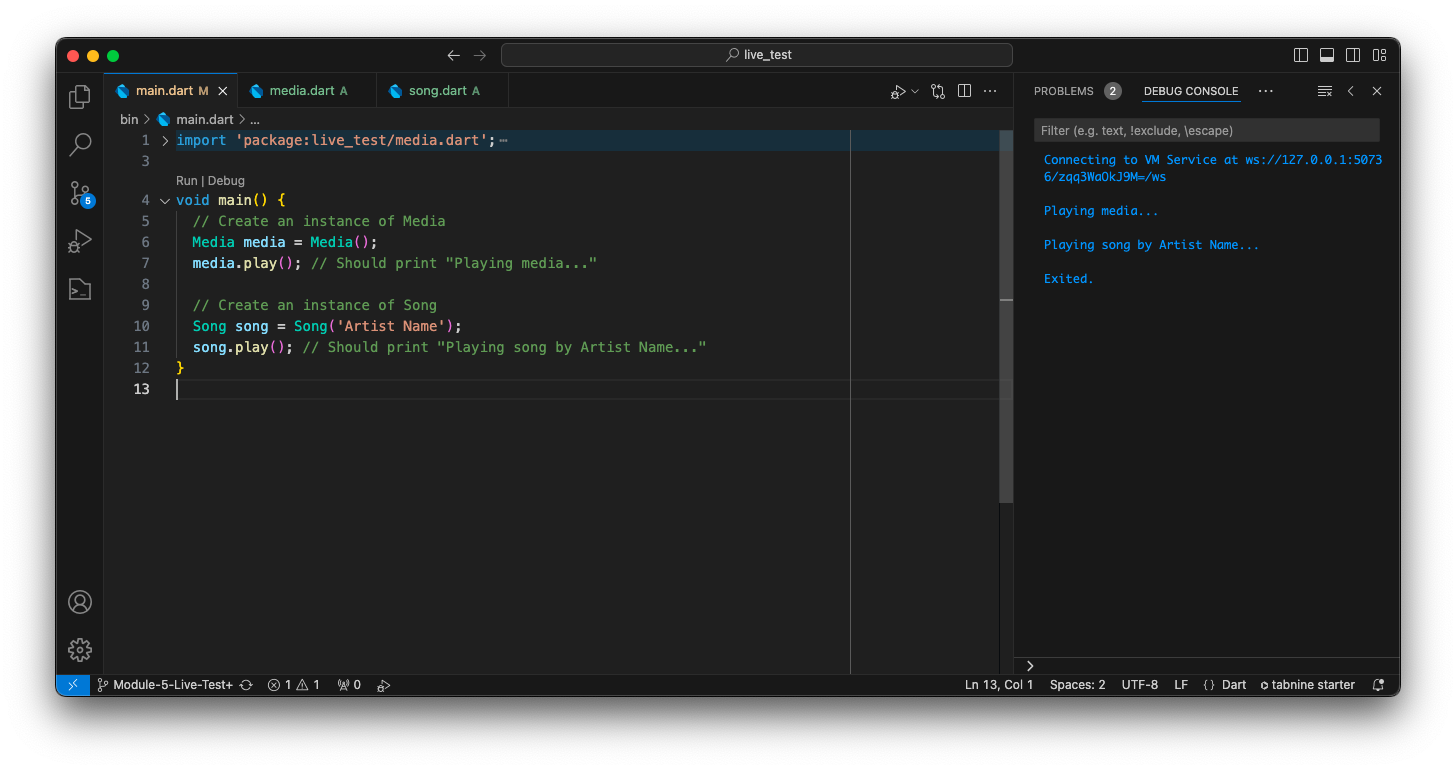
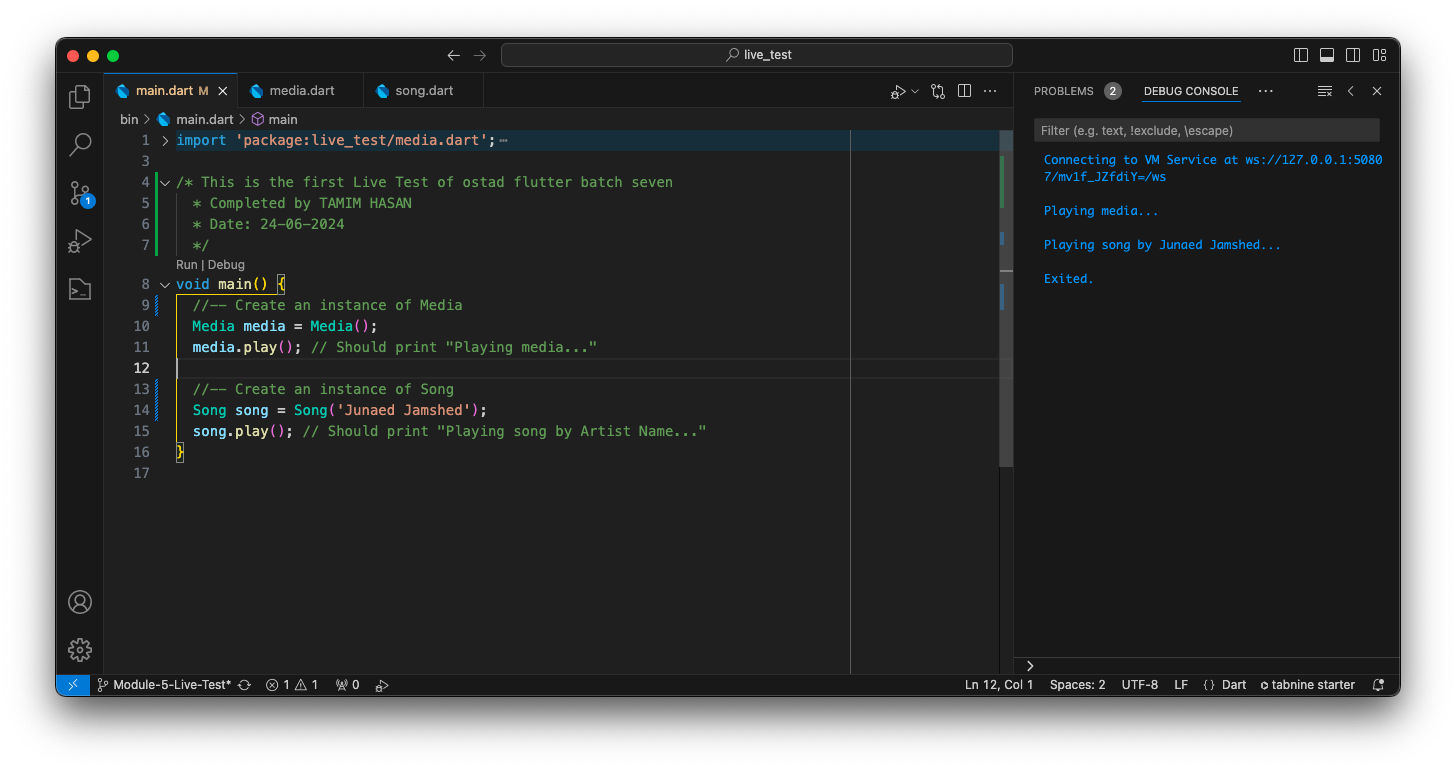
update comment and screen short

diff --git a/bin/main.dart b/bin/main.dart
@@ -1,12 +1,16 @@
 import 'package:live_test/media.dart';
 import 'package:live_test/song.dart';
 
+/* This is the first Live Test of ostad flutter batch seven
+  * Completed by TAMIM HASAN 
+  * Date: 24-06-2024
+  */
 void main() {
-  // Create an instance of Media
+  //-- Create an instance of Media
   Media media = Media();
   media.play(); // Should print "Playing media..."
 
-  // Create an instance of Song
-  Song song = Song('Artist Name');
+  //-- Create an instance of Song
+  Song song = Song('Junaed Jamshed');
   song.play(); // Should print "Playing song by Artist Name..."
 }
